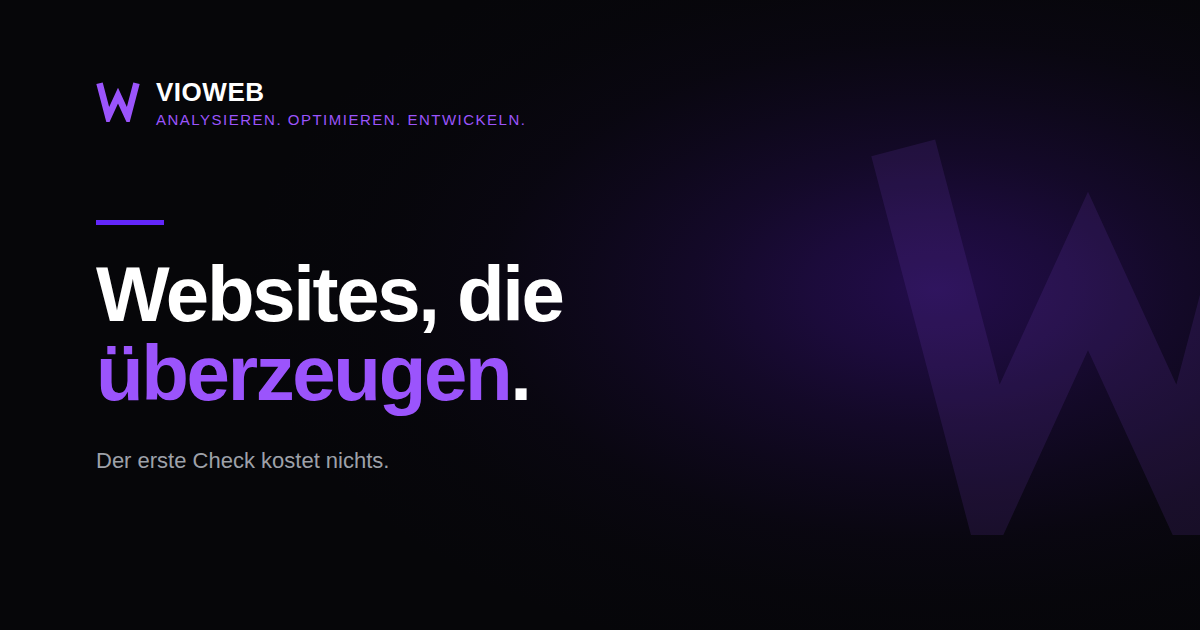
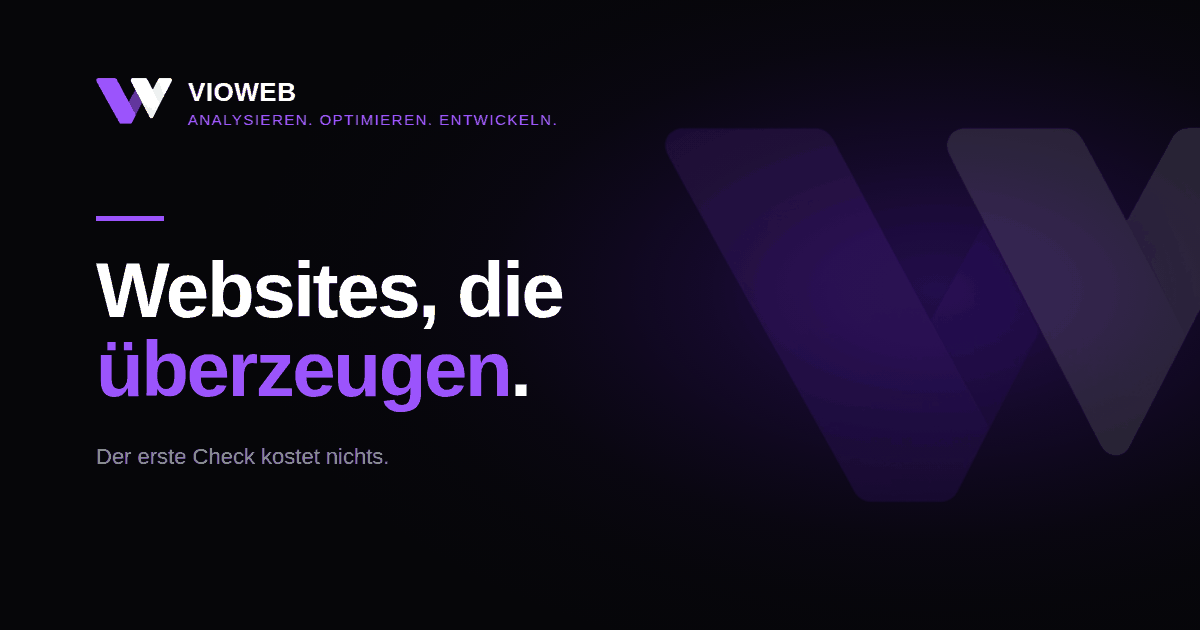
Echtes Firmenzeichen einbauen
Ersetzt das gezeichnete Platzhalter-W durch die gelieferte Vorlage.

An der Quelldatei (1024x1024 PNG) waren zwei Dinge zu beheben:

  Ein 1 Pixel breiter grauer Rahmen lief um die gesamte Flaeche. Auf dem
  dunklen Grund haette er als graues Kaestchen um das Logo gestanden, bei
  32 px im Kopfbereich deutlich sichtbar.

  88 Prozent der Flaeche war leer. Ungeschnitten waere das Zeichen im
  Kopfbereich auf etwa 19 px Hoehe geschrumpft.

Nach Rahmenschnitt und Zuschnitt auf die echten Motivgrenzen misst das
Zeichen 602x365, Verhaeltnis 1,649:1 — es ist also breiter als hoch,
nicht quadratisch wie der Platzhalter. Daraus entstanden:

  img/zeichen.webp   480x291, Qualitaet 88 — Kopfbereich und Wasserzeichen
  img/favicon.png    180x180 quadratisch, dient auch als Apple-Touch-Icon
  img/og-bild.png    neu erzeugt mit dem echten Zeichen

Das Zeichen hat zwei Farben und weiche Verlaeufe, laesst sich also nicht
ueber currentColor einfaerben. Das inline eingebettete SVG im Kopfbereich
ist deshalb in allen fuenf Seiten durch ein <img> ersetzt. Kopfbereich und
Wasserzeichen teilen sich dieselbe Datei, das bleibt eine Anfrage.

Wasserzeichen an das neue Verhaeltnis angepasst: Breite min(58vw, 620px)
bei right -9%, ergibt 376 px Hoehe gegen 560 px Mindesthoehe. Damit wird
es weiterhin ausschliesslich am rechten Rand angeschnitten.

Kontrast ueber dem Wasserzeichen nachgemessen statt angenommen: hellster
Punkt aus Schein und Zeichen ist rgb(57,39,90), der gedaempfte Flieesstext
[…]

diff --git a/index.html b/index.html
@@ -25,7 +25,8 @@
 <meta name="twitter:description" content="Wir prüfen deine Website auf Ladezeit, Rechtssicherheit und Auffindbarkeit. Der erste Check kostet nichts.">
 <meta name="twitter:image" content="https://vioweb.de/img/og-bild.png">
 
-<link rel="icon" href="img/zeichen.svg" type="image/svg+xml">
+<link rel="icon" href="img/favicon.png" sizes="any">
+<link rel="apple-touch-icon" href="img/favicon.png">
 
 <!-- =====================================================================
      KRITISCHES CSS — deckt alles oberhalb der Falz ab (Werte, Basis,
@@ -151,7 +152,9 @@ button, input, textarea { font: inherit; color: inherit; }
   gap: 24px; flex-wrap: wrap;
 }
 .marke { display: flex; align-items: flex-start; gap: 14px; text-decoration: none; }
-.marke__zeichen { width: 38px; height: 38px; flex: none; color: var(--akzent-hell); margin-top: 2px; }
+/* Rastergrafik mit eigenen Farben: keine Einfaerbung ueber currentColor.
+   Hoehe steuert die Groesse, Breite folgt dem Seitenverhaeltnis 1,649. */
+.marke__zeichen { height: 32px; width: auto; flex: none; margin-top: 3px; }
 .marke__name {
   display: block; font-size: 1.35rem; font-weight: 700;
   letter-spacing: .02em; line-height: 1.1;
@@ -196,9 +199,9 @@ button, input, textarea { font: inherit; color: inherit; }
 /* Wasserzeichen: nur am rechten Rand angeschnitten. Oben und unten bleibt
    Luft, damit die Form als W lesbar bleibt und nicht als dunkler Block. */
 .aufmacher__zeichen {
-  position: absolute; right: -11%; top: 50%; transform: translateY(-50%);
-  width: min(46vw, 460px); height: auto;
-  color: var(--akzent-hell); opacity: .11; pointer-events: none;
+  position: absolute; right: -9%; top: 50%; transform: translateY(-50%);
+  width: min(58vw, 620px); height: auto;
+  opacity: .11; pointer-events: none;
 }
 .aufmacher__inhalt { position: relative; }
 .aufmacher h1 {
@@ -233,10 +236,8 @@ button, input, textarea { font: inherit; color: inherit; }
 <header class="kopf">
   <div class="feld kopf__inhalt">
     <a class="marke" href="/">
-      <svg class="marke__zeichen" viewBox="0 0 100 100" aria-hidden="true">
-        <path d="M8 12 L28 88 L50 40 L72 88 L92 12" fill="none"
-              stroke="currentColor" stroke-width="15" stroke-linejoin="miter"/>
-      </svg>
+      <img class="marke__zeichen" src="img/zeichen.webp" alt=""
+           width="480" height="291">
       <span>
         <span class="marke__name">VIOWEB</span>
         <span class="marke__claim">Analysieren. Optimieren. Entwickeln.</span>
@@ -254,8 +255,8 @@ button, input, textarea { font: inherit; color: inherit; }
   <!-- ===================================================== Aufmacher -->
   <section class="aufmacher">
     <div class="aufmacher__schein" aria-hidden="true"></div>
-    <img class="aufmacher__zeichen" src="img/zeichen.svg" alt=""
-         width="460" height="460" fetchpriority="low">
+    <img class="aufmacher__zeichen" src="img/zeichen.webp" alt=""
+         width="480" height="291" fetchpriority="low">
 
     <div class="feld aufmacher__inhalt">
       <p class="kicker">Website-Prüfung und Entwicklung</p>

diff --git a/datenschutz.html b/datenschutz.html
@@ -22,7 +22,8 @@
 <link rel="canonical" href="https://vioweb.de/datenschutz.html">
 <meta name="robots" content="index,follow">
 <meta name="theme-color" content="#060609">
-<link rel="icon" href="img/zeichen.svg" type="image/svg+xml">
+<link rel="icon" href="img/favicon.png" sizes="any">
+<link rel="apple-touch-icon" href="img/favicon.png">
 
 <style>
 /* ---------------------------------------------------------------- Werte */
@@ -130,7 +131,9 @@ ul, ol { list-style: none; padding: 0; }
   gap: 24px; flex-wrap: wrap;
 }
 .marke { display: flex; align-items: flex-start; gap: 14px; text-decoration: none; }
-.marke__zeichen { width: 38px; height: 38px; flex: none; color: var(--akzent-hell); margin-top: 2px; }
+/* Rastergrafik mit eigenen Farben: keine Einfaerbung ueber currentColor.
+   Hoehe steuert die Groesse, Breite folgt dem Seitenverhaeltnis 1,649. */
+.marke__zeichen { height: 32px; width: auto; flex: none; margin-top: 3px; }
 .marke__name {
   display: block; font-size: 1.35rem; font-weight: 700;
   letter-spacing: .02em; line-height: 1.1;
@@ -172,10 +175,8 @@ ul, ol { list-style: none; padding: 0; }
 <header class="kopf">
   <div class="feld kopf__inhalt">
     <a class="marke" href="index.html">
-      <svg class="marke__zeichen" viewBox="0 0 100 100" aria-hidden="true">
-        <path d="M8 12 L28 88 L50 40 L72 88 L92 12" fill="none"
-              stroke="currentColor" stroke-width="15" stroke-linejoin="miter"/>
-      </svg>
+      <img class="marke__zeichen" src="img/zeichen.webp" alt=""
+           width="480" height="291">
       <span>
         <span class="marke__name">VIOWEB</span>
         <span class="marke__claim">Analysieren. Optimieren. Entwickeln.</span>

diff --git a/impressum.html b/impressum.html
@@ -22,7 +22,8 @@
 <link rel="canonical" href="https://vioweb.de/impressum.html">
 <meta name="robots" content="index,follow">
 <meta name="theme-color" content="#060609">
-<link rel="icon" href="img/zeichen.svg" type="image/svg+xml">
+<link rel="icon" href="img/favicon.png" sizes="any">
+<link rel="apple-touch-icon" href="img/favicon.png">
 
 <style>
 /* ---------------------------------------------------------------- Werte */
@@ -130,7 +131,9 @@ ul, ol { list-style: none; padding: 0; }
   gap: 24px; flex-wrap: wrap;
 }
 .marke { display: flex; align-items: flex-start; gap: 14px; text-decoration: none; }
-.marke__zeichen { width: 38px; height: 38px; flex: none; color: var(--akzent-hell); margin-top: 2px; }
+/* Rastergrafik mit eigenen Farben: keine Einfaerbung ueber currentColor.
+   Hoehe steuert die Groesse, Breite folgt dem Seitenverhaeltnis 1,649. */
+.marke__zeichen { height: 32px; width: auto; flex: none; margin-top: 3px; }
 .marke__name {
   display: block; font-size: 1.35rem; font-weight: 700;
   letter-spacing: .02em; line-height: 1.1;
@@ -172,10 +175,8 @@ ul, ol { list-style: none; padding: 0; }
 <header class="kopf">
   <div class="feld kopf__inhalt">
     <a class="marke" href="index.html">
-      <svg class="marke__zeichen" viewBox="0 0 100 100" aria-hidden="true">
-        <path d="M8 12 L28 88 L50 40 L72 88 L92 12" fill="none"
-              stroke="currentColor" stroke-width="15" stroke-linejoin="miter"/>
-      </svg>
+      <img class="marke__zeichen" src="img/zeichen.webp" alt=""
+           width="480" height="291">
       <span>
         <span class="marke__name">VIOWEB</span>
         <span class="marke__claim">Analysieren. Optimieren. Entwickeln.</span>

diff --git a/danke.html b/danke.html
@@ -10,7 +10,8 @@
 <link rel="canonical" href="https://vioweb.de/danke.html">
 <meta name="robots" content="noindex,follow">
 <meta name="theme-color" content="#060609">
-<link rel="icon" href="img/zeichen.svg" type="image/svg+xml">
+<link rel="icon" href="img/favicon.png" sizes="any">
+<link rel="apple-touch-icon" href="img/favicon.png">
 
 <style>
 /* ---------------------------------------------------------------- Werte */
@@ -118,7 +119,9 @@ ul, ol { list-style: none; padding: 0; }
   gap: 24px; flex-wrap: wrap;
 }
 .marke { display: flex; align-items: flex-start; gap: 14px; text-decoration: none; }
-.marke__zeichen { width: 38px; height: 38px; flex: none; color: var(--akzent-hell); margin-top: 2px; }
+/* Rastergrafik mit eigenen Farben: keine Einfaerbung ueber currentColor.
+   Hoehe steuert die Groesse, Breite folgt dem Seitenverhaeltnis 1,649. */
+.marke__zeichen { height: 32px; width: auto; flex: none; margin-top: 3px; }
 .marke__name {
   display: block; font-size: 1.35rem; font-weight: 700;
   letter-spacing: .02em; line-height: 1.1;
@@ -160,10 +163,8 @@ ul, ol { list-style: none; padding: 0; }
 <header class="kopf">
   <div class="feld kopf__inhalt">
     <a class="marke" href="index.html">
-      <svg class="marke__zeichen" viewBox="0 0 100 100" aria-hidden="true">
-        <path d="M8 12 L28 88 L50 40 L72 88 L92 12" fill="none"
-              stroke="currentColor" stroke-width="15" stroke-linejoin="miter"/>
-      </svg>
+      <img class="marke__zeichen" src="img/zeichen.webp" alt=""
+           width="480" height="291">
       <span>
         <span class="marke__name">VIOWEB</span>
         <span class="marke__claim">Analysieren. Optimieren. Entwickeln.</span>

diff --git a/404.html b/404.html
@@ -10,7 +10,8 @@
 <link rel="canonical" href="https://vioweb.de/404.html">
 <meta name="robots" content="noindex,follow">
 <meta name="theme-color" content="#060609">
-<link rel="icon" href="img/zeichen.svg" type="image/svg+xml">
+<link rel="icon" href="img/favicon.png" sizes="any">
+<link rel="apple-touch-icon" href="img/favicon.png">
 
 <style>
 /* ---------------------------------------------------------------- Werte */
@@ -118,7 +119,9 @@ ul, ol { list-style: none; padding: 0; }
   gap: 24px; flex-wrap: wrap;
 }
 .marke { display: flex; align-items: flex-start; gap: 14px; text-decoration: none; }
-.marke__zeichen { width: 38px; height: 38px; flex: none; color: var(--akzent-hell); margin-top: 2px; }
+/* Rastergrafik mit eigenen Farben: keine Einfaerbung ueber currentColor.
+   Hoehe steuert die Groesse, Breite folgt dem Seitenverhaeltnis 1,649. */
+.marke__zeichen { height: 32px; width: auto; flex: none; margin-top: 3px; }
 .marke__name {
   display: block; font-size: 1.35rem; font-weight: 700;
   letter-spacing: .02em; line-height: 1.1;
@@ -160,10 +163,8 @@ ul, ol { list-style: none; padding: 0; }
 <header class="kopf">
   <div class="feld kopf__inhalt">
     <a class="marke" href="index.html">
-      <svg class="marke__zeichen" viewBox="0 0 100 100" aria-hidden="true">
-        <path d="M8 12 L28 88 L50 40 L72 88 L92 12" fill="none"
-              stroke="currentColor" stroke-width="15" stroke-linejoin="miter"/>
-      </svg>
+      <img class="marke__zeichen" src="img/zeichen.webp" alt=""
+           width="480" height="291">
       <span>
         <span class="marke__name">VIOWEB</span>
         <span class="marke__claim">Analysieren. Optimieren. Entwickeln.</span>

diff --git a/README.md b/README.md
@@ -22,9 +22,48 @@ sitemap.xml
 .nojekyll             schaltet die Jekyll-Verarbeitung von GitHub Pages ab
 css/seite.css         alles unterhalb der Falz
 js/formular.js        ausschließlich der Formularversand
-img/zeichen.svg       Firmenzeichen — PLATZHALTER
+img/zeichen.webp      Firmenzeichen, 480 × 291 — Kopfbereich und Wasserzeichen
+img/favicon.png       Firmenzeichen quadratisch, 180 × 180 — Browser-Reiter
 img/og-bild.png       Vorschaubild für soziale Netzwerke, 1200 × 630
 ```
+
+---
+
+## Das Firmenzeichen
+
+Das echte Zeichen ist eingebaut. Die Quelldatei war ein 1024 × 1024 großes
+PNG, an dem zwei Dinge nicht stimmten und die vor dem Einbau behoben
+wurden:
+
+- Ein **ein Pixel breiter grauer Rahmen** lief um die gesamte Fläche. Auf
+  dem dunklen Grund hätte er als graues Kästchen um das Logo gestanden,
+  bei 32 px im Kopfbereich deutlich sichtbar.
+- **88 % der Fläche war leer.** Ungeschnitten wäre das Zeichen im
+  Kopfbereich auf etwa 19 px Höhe geschrumpft.
+
+Daraus entstanden die drei Dateien oben. Verhältnis des Zeichens nach dem
+Zuschnitt: **1,649 : 1** (breiter als hoch) — davon hängen die Größen im
+CSS ab.
+
+### Wenn das Zeichen einmal getauscht wird
+
+Neue Quelldatei bereitlegen, dann:
+
+1. Rahmen abschneiden und auf die echten Motivgrenzen zuschneiden
+2. Auf 480 px Breite verkleinern, als WebP mit Qualität 88 speichern →
+   `img/zeichen.webp`
+3. Quadratisches Favicon mit 10 % Luft ringsum erzeugen → `img/favicon.png`
+4. `img/og-bild.png` neu erzeugen, es enthält dasselbe Zeichen
+5. Ändert sich das Seitenverhältnis, in **allen fünf** HTML-Dateien die
+   `width`- und `height`-Angaben am `<img class="marke__zeichen">` sowie am
+   Wasserzeichen in `index.html` anpassen
+
+**Warum WebP und kein SVG:** Das Zeichen hat zwei Farben und weiche
+Verläufe. Eine Nachzeichnung als SVG wäre etwa 2 KB statt 30 KB groß und
+bei jeder Größe gestochen scharf — sie wäre aber eine **Nachbildung**, nicht
+die Originaldatei. Bei einem Markenzeichen ist das eine Entscheidung des
+Betreibers, keine des Entwicklers. Sag Bescheid, wenn du die schlanke
+Variante willst; die 30 KB sind der Preis für die exakte Vorlage.
 
 ---
 
@@ -32,20 +71,7 @@ img/og-bild.png       Vorschaubild für soziale Netzwerke, 1200 × 630
 
 Diese Punkte sind noch offen. Die Reihenfolge ist die empfohlene.
 
-### 1. Firmenzeichen ersetzen
-
-`img/zeichen.svg` enthält ein selbst gezeichnetes Platzhalter-W. Ersetze die
-Datei durch das echte Zeichen — gleicher Dateiname, gleiche Stelle.
-
-Damit Wasserzeichen und Kopfbereich weiter passen, sollte die Ersatzdatei
-ein **quadratisches** `viewBox`-Verhältnis haben und ihre Farbe über
-`currentColor` beziehen. Das Zeichen ist zusätzlich direkt in den
-HTML-Dateien eingebettet (Kopfbereich und Fußzeile) — such dort nach
-`marke__zeichen` und tausche den `<path>` mit aus.
-
-Danach `img/og-bild.png` neu erzeugen, es enthält dasselbe Zeichen.
-
-### 2. E-Mail-Adresse prüfen
+### 1. E-Mail-Adresse prüfen
 
 Überall steht `kontakt@vioweb.de`. Das ist eine **Annahme**, keine
 Vorgabe — die Domain war bekannt, der Teil davor nicht. Stimmt die Adresse
@@ -59,7 +85,7 @@ Der Grund für die Annahme statt eines Platzhalters: Ohne funktionierende
 Adresse wäre der E-Mail-Rückfall des Formulars tot, und ein totes Formular
 war ausgeschlossen.
 
-### 3. Impressum ausfüllen
+### 2. Impressum ausfüllen
 
 In `impressum.html` sind alle offenen Stellen hervorgehoben — im Quelltext
 als `[GROSSBUCHSTABEN IN KLAMMERN]`, auf der Seite als lila unterlegter
@@ -79,14 +105,14 @@ die Umsatzsteuer-Identifikationsnummer nach § 27a UStG.
 Zum Schluss den orangen Warnkasten und den Warnhinweis am Anfang der Datei
 löschen.
 
-### 4. Datenschutzerklärung ausfüllen
+### 3. Datenschutzerklärung ausfüllen
 
 Gleiches Vorgehen in `datenschutz.html`. Zusätzlich zu den Angaben aus dem
 Impressum:
 
 | Platzhalter | Woher |
 |---|---|
-| `[NAME DES FORMULARDIENSTES]` | siehe Punkt 5 |
+| `[NAME DES FORMULARDIENSTES]` | siehe Punkt 4 |
 | `[ANBIETER UND ANSCHRIFT]` | aus dem Impressum des Dienstes |
 | `[SERVERSTANDORT]` | aus dem Vertrag |
 | `[SPEICHERDAUER…]` | deine Entscheidung, üblich sind 6 bis 12 Monate |
@@ -97,7 +123,7 @@ per E-Mail arbeitet, muss der Absatz zum Formulardienst **gelöscht**
 werden. Eine Datenschutzerklärung, die einen nicht genutzten Dienst nennt,
 ist genauso falsch wie eine, die einen genutzten verschweigt.
 
-### 5. Formulardienst einrichten
+### 4. Formulardienst einrichten
 
 GitHub Pages kann keine Formulare verarbeiten — es liefert nur Dateien aus.
 Für den Versand braucht es einen fremden Dienst.
@@ -132,7 +158,7 @@ Außerdem das versteckte Feld `_redirect` auf die volle Adresse von
 eine vorbefüllte E-Mail zurück. Es gibt keinen Zustand, in dem der Besucher
 vor einem toten Formular steht.
 
-### 6. GitHub Pages aktivieren
+### 5. GitHub Pages aktivieren
 
 1. Im Repository auf **Settings → Pages**
 2. Unter *Build and deployment* als Source **Deploy from a branch** wählen
@@ -148,7 +174,7 @@ vor einem toten Formular steht.
 Die Datei `.nojekyll` muss liegen bleiben, sonst verarbeitet GitHub die
 Dateien unnötig nach.
 
-### 7. Zum Schluss
+### 6. Zum Schluss
 
 - `sitemap.xml`: das `lastmod`-Datum aktualisieren
 - Die Seite bei der Google Search Console anmelden
@@ -217,6 +243,8 @@ Automatisiert in Chromium, alle fünf Seiten bei 360, 768 und 1280 px:
 - Klickflächen ab 44 px, außer bei Verweisen mitten im Satz
 - Keine toten Verweise, keine Anker ohne Ziel
 - Alle Bilder mit `width` und `height`
+- Fließtext über dem Wasserzeichen: 5,04:1 (mobil) und 5,41:1 (Desktop),
+  gemessen am hellsten Punkt von Lichtschein und Zeichen
 - Formular in allen drei Wegen: mit Endpunkt, per E-Mail, ohne JavaScript
 - Leeres Absenden erzeugt drei Fehler in Klartext neben den Feldern
 - `beispiel.de` wird zu `https://beispiel.de` ergänzt
@@ -224,4 +252,6 @@ Automatisiert in Chromium, alle fünf Seiten bei 360, 768 und 1280 px:
 - `prefers-reduced-motion` blendet nichts aus
 - JSON-LD gültig
 
-Gesamtgröße der Startseite: **rund 30 KB**, verteilt auf vier Anfragen.
+Gesamtgröße der Startseite: **79,5 KB**, verteilt auf fünf Anfragen —
+davon 30,6 KB das Firmenzeichen und 11,9 KB das Favicon. Ohne die beiden
+Bilddateien wären es 38,6 KB.

diff --git a/vioweb-designrichtlinien.md b/vioweb-designrichtlinien.md
@@ -139,10 +139,25 @@ Zwei harte Bedingungen:
 
 1. **Nur am rechten Rand angeschnitten.** Wird das Zeichen an zwei Rändern
    gleichzeitig beschnitten, wirkt es als dunkler Block statt als Form.
-   Umgesetzt über `right: -11%`, vertikal zentriert, Breite
-   `min(46vw, 460px)` gegen eine Mindesthöhe von 560 px.
+   Umgesetzt über `right: -9%`, vertikal zentriert, Breite
+   `min(58vw, 620px)`. Das Zeichen ist **breiter als hoch (1,649 : 1)**,
+   bei 620 px also 376 px hoch — es passt damit sicher in die Mindesthöhe
+   von 560 px, ohne oben oder unten anzustoßen.
 2. **Der Schein hat keine sichtbare Kante.** Der Verlauf läuft über sieben
    Stufen bis auf null aus. Weniger Stufen erzeugen einen sichtbaren Ring.
+3. **Der Text darüber muss lesbar bleiben.** Schein und Zeichen zusammen
+   ergeben am hellsten Punkt `rgb(57,39,90)`. Der gedämpfte Fließtext
+   erreicht darauf 5,04:1 (Handy) und 5,41:1 (Desktop). Wird die Deckkraft
+   des Wasserzeichens oder die Stärke des Scheins erhöht, ist dieser Wert
+   neu zu messen.
+
+### Das Zeichen ist eine Rastergrafik
+
+Es hat zwei Farben und weiche Verläufe, wird also **nicht** über
+`currentColor` eingefärbt. Größen laufen deshalb über die Höhe
+(Kopfbereich) beziehungsweise die Breite (Wasserzeichen), das
+Seitenverhältnis folgt aus den `width`/`height`-Angaben im Markup — die
+verhindern zugleich jeden Layoutsprung beim Laden.
 
 ---
 
